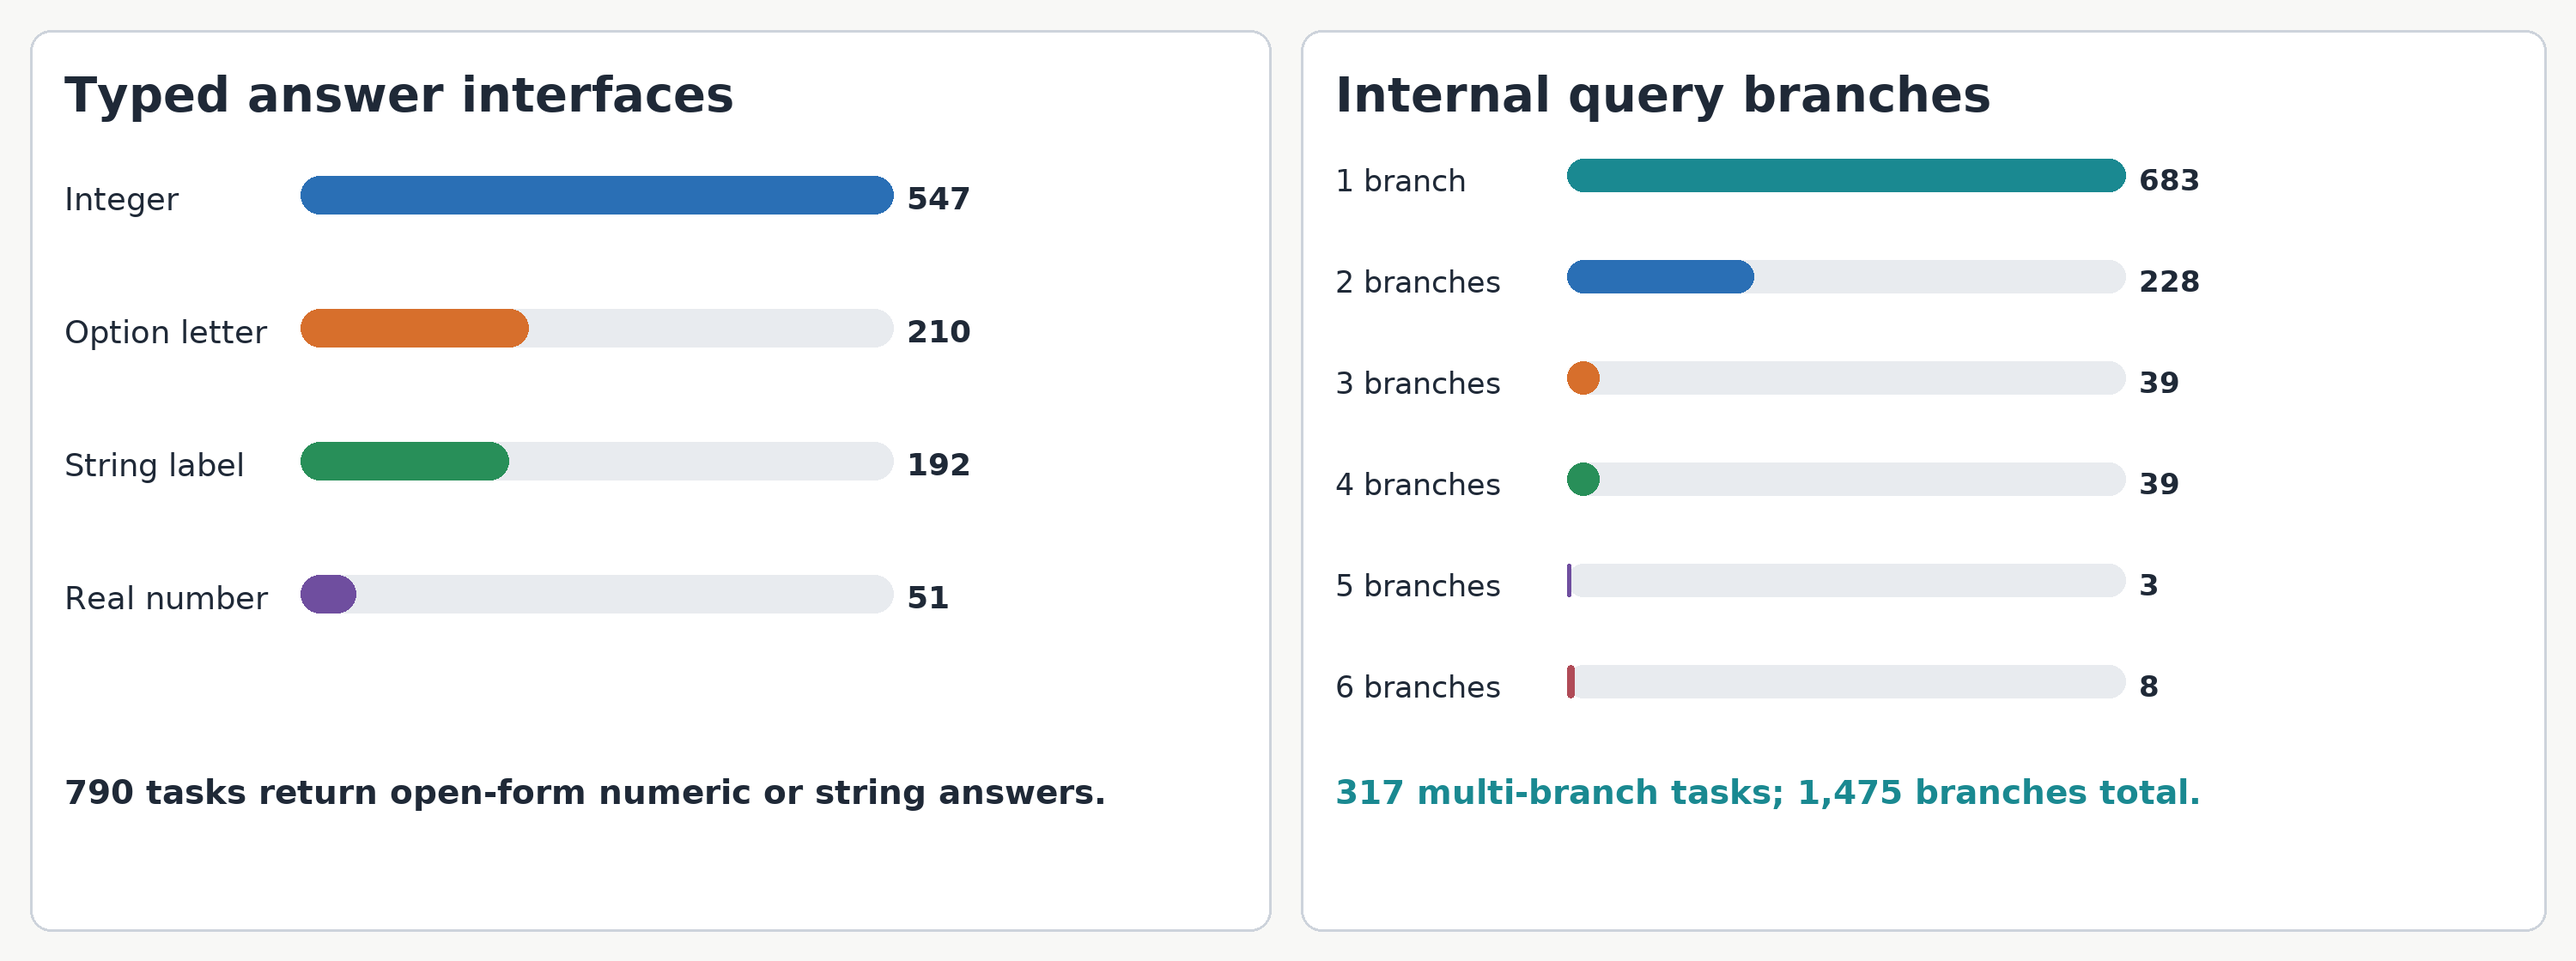
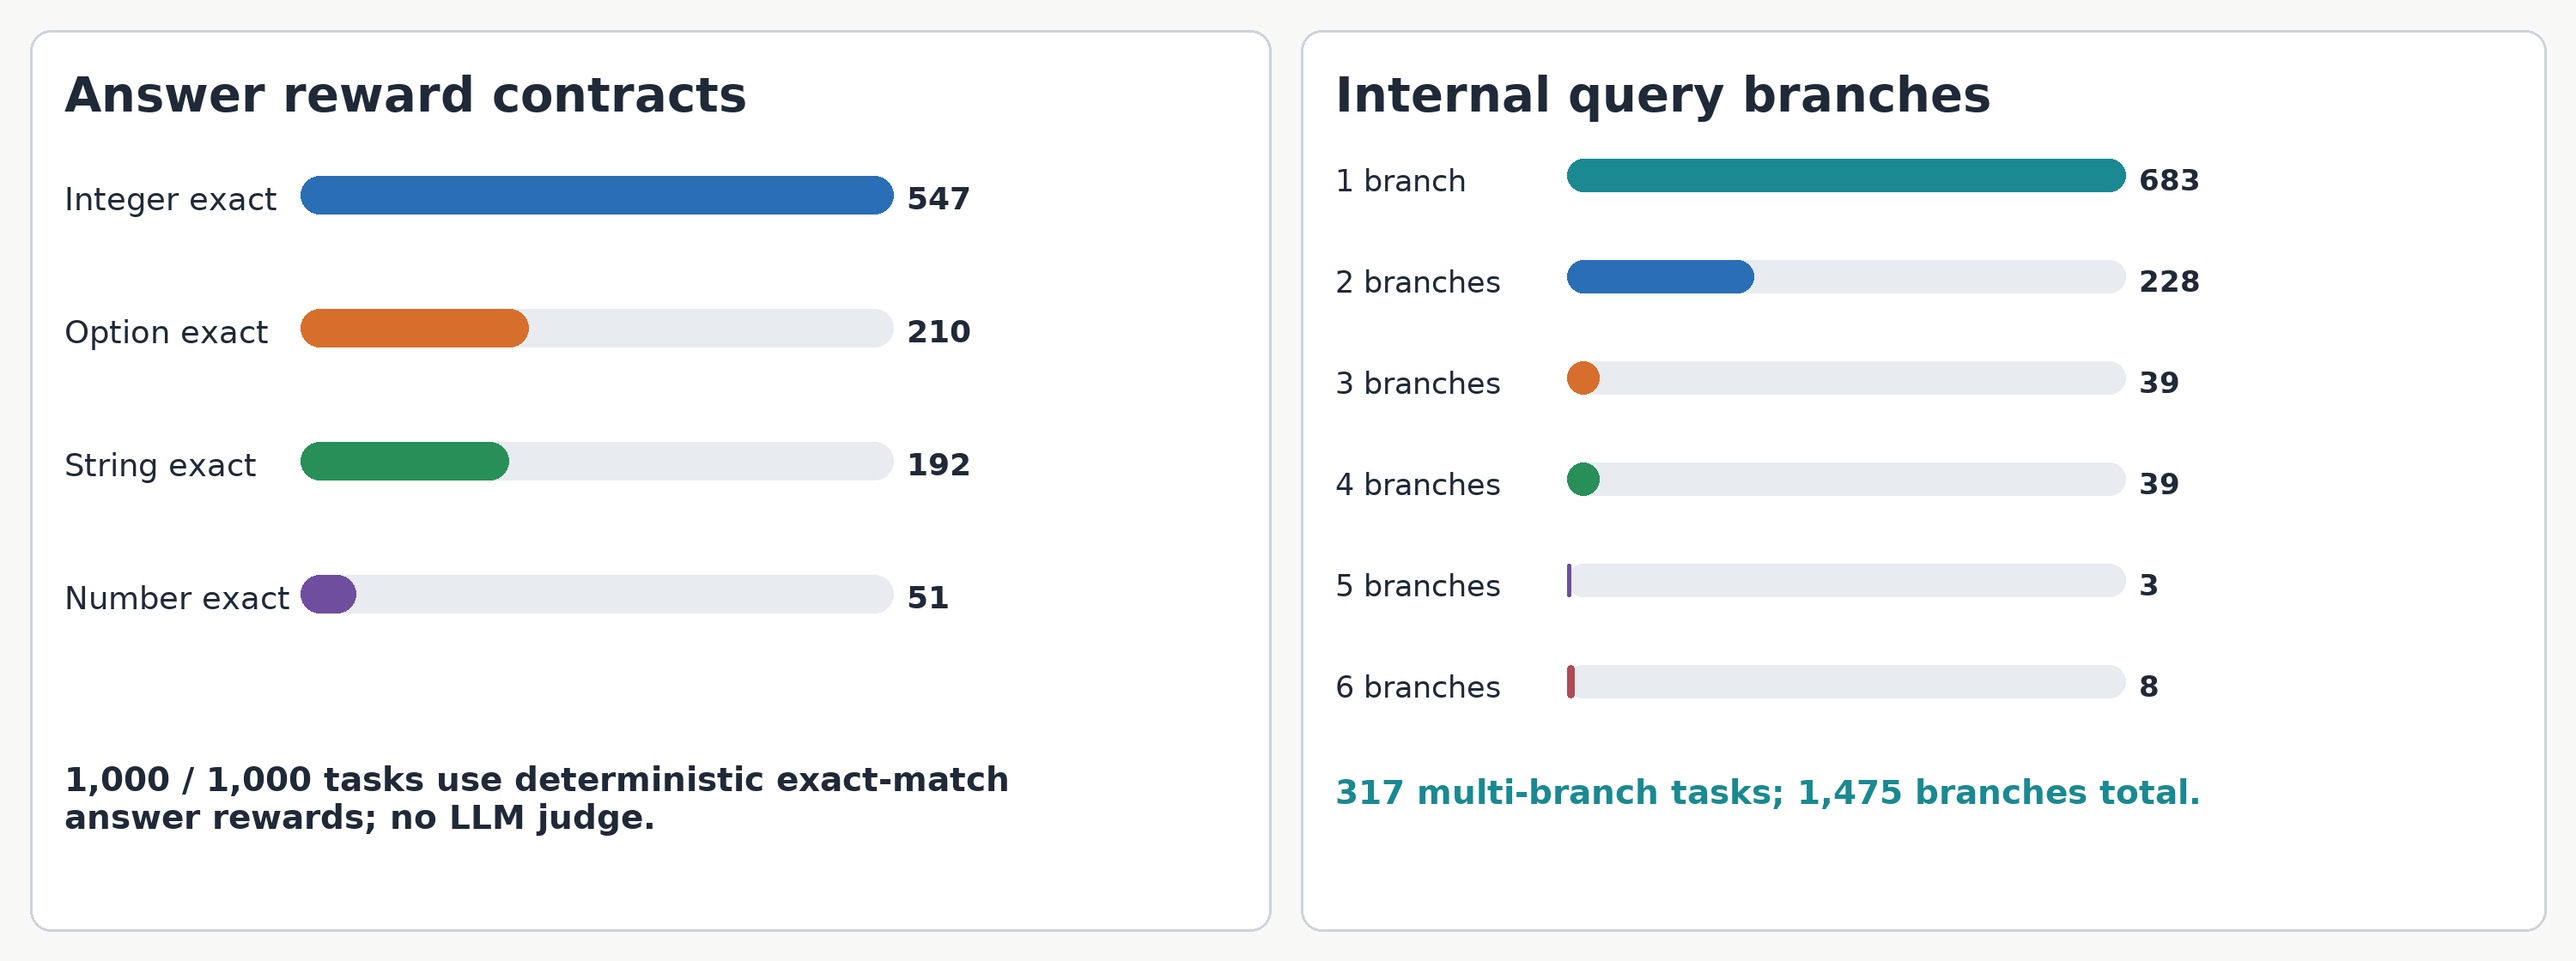
Document deterministic answer reward contracts

diff --git a/paper/trace/scripts/build_method_figures.py b/paper/trace/scripts/build_method_figures.py
@@ -872,15 +872,15 @@ def _build_environment_coverage(coverage: dict[str, Any], output: Path) -> None:
     for panel in panels:
         _rounded_card(draw, panel, radius=24, width=3)
 
-    draw.text((75, 78), "Typed answer interfaces", font=heading, fill=INK)
+    draw.text((75, 78), "Answer reward contracts", font=heading, fill=INK)
     draw.text((1555, 78), "Internal query branches", font=heading, fill=INK)
 
     answer_order = ("integer", "option_letter", "string", "number")
     answer_labels = {
-        "integer": "Integer",
-        "option_letter": "Option letter",
-        "string": "String label",
-        "number": "Real number",
+        "integer": "Integer exact",
+        "option_letter": "Option exact",
+        "string": "String exact",
+        "number": "Number exact",
     }
     answer_colors = (BLUE, ORANGE, GREEN, PURPLE)
     answer_max = max(int(coverage["answer_types"][key]) for key in answer_order)
@@ -901,7 +901,15 @@ def _build_environment_coverage(coverage: dict[str, Any], output: Path) -> None:
             value_font_size=36,
         )
         y += 155
-    draw.text((75, 900), "790 tasks return open-form numeric or string answers.", font=subheading, fill=INK)
+    _draw_wrapped(
+        draw,
+        (75, 885),
+        "1,000 / 1,000 tasks use deterministic exact-match answer rewards; no LLM judge.",
+        subheading,
+        max_width=1270,
+        fill=INK,
+        line_gap=8,
+    )
 
     branch_counts = coverage["query_branch_counts"]
     branch_max = max(int(value) for value in branch_counts.values())

diff --git a/paper/trace/sections/trace_design.tex b/paper/trace/sections/trace_design.tex
@@ -46,8 +46,16 @@ verifier state to a reusable scoring contract, and $\Gamma$ records the
 execution as a replayable trace.
 
 Each supported answer type uses deterministic normalization followed by
-exact-match scoring. Task programs therefore produce typed answers and
-verifier state rather than defining ad hoc rewards for individual objectives.
+exact-match scoring. Across the active environment, 547 tasks return integers,
+51 return canonical numeric values, 192 return strings, and 210 return visible
+option letters. Integers and numbers are compared as normalized JSON scalars at
+the precision specified by the task; strings and option letters are compared
+as normalized typed values. All 1,000 tasks therefore resolve to the same
+answer reward contract, \texttt{answer\_exact\_match\_v0}. Primary training
+requires neither an LLM judge nor a task-specific learned reward model. Task
+programs produce the typed target and verifier state, while the shared scorer
+only parses, normalizes, and compares the submitted answer. The resulting
+contract distribution is summarized in Appendix~\ref{fig:environment-coverage}.
 
 All random choices descend from $z$ through independent seeded streams. The
 task, query, semantic parameters, prompt realization, visual parameters, and

diff --git a/paper/trace/sections/appendix.tex b/paper/trace/sections/appendix.tex
@@ -2,15 +2,17 @@
 \label{app:coverage}
 
 Figure~\ref{fig:environment-coverage} complements the main-paper coverage
-summary with typed answer interfaces and the number of internal query branches
-per task.
+summary with deterministic answer-reward contracts and the number of internal
+query branches per task.
 
 \begin{figure*}[t]
   \centering
   \includegraphics[width=\textwidth]{figures/environment_coverage.png}
-  \caption{Output and query structure in the \trace environment. Left: typed
-  answer interfaces. Right: number of internal semantic query branches per
-  task. Counts are computed from the complete set of objective contracts.}
+  \caption{Reward and query structure in the \trace environment. Left: active
+  answer types; every type is scored by deterministic exact match after typed
+  normalization, without an LLM judge. Right: number of internal semantic
+  query branches per task. Counts are computed from the complete set of
+  objective contracts.}
   \label{fig:environment-coverage}
 \end{figure*}
 

diff --git a/paper/trace/sections/environment_coverage.tex b/paper/trace/sections/environment_coverage.tex
@@ -44,11 +44,10 @@ other meaningful operation applies.
 
 A scene contains a median of three tasks (mean 3.61, range 1--26), reflecting
 the policy that scenes are visual grammars rather than fixed-size task
-bundles.  The answer interface is also heterogeneous: 547 tasks return
-integers, 51 return other numeric values, 192 return visible string labels,
-and 210 select rendered options. Thus, 790 tasks use open-form numeric or
-string outputs rather than multiple choice. A generated distribution summary
-appears in Appendix~\ref{fig:environment-coverage}.
+bundles. The answer interface spans open-form numeric values, visible string
+labels, and rendered options; 790 tasks use open-form numeric or string outputs
+rather than multiple choice. Exact answer-type counts and internal query-branch
+counts appear in Appendix~\ref{fig:environment-coverage}.
 
 Internal query branches express bounded semantic arguments without inflating
 the task count. Of the 1,000 tasks, 317 expose more than one query
